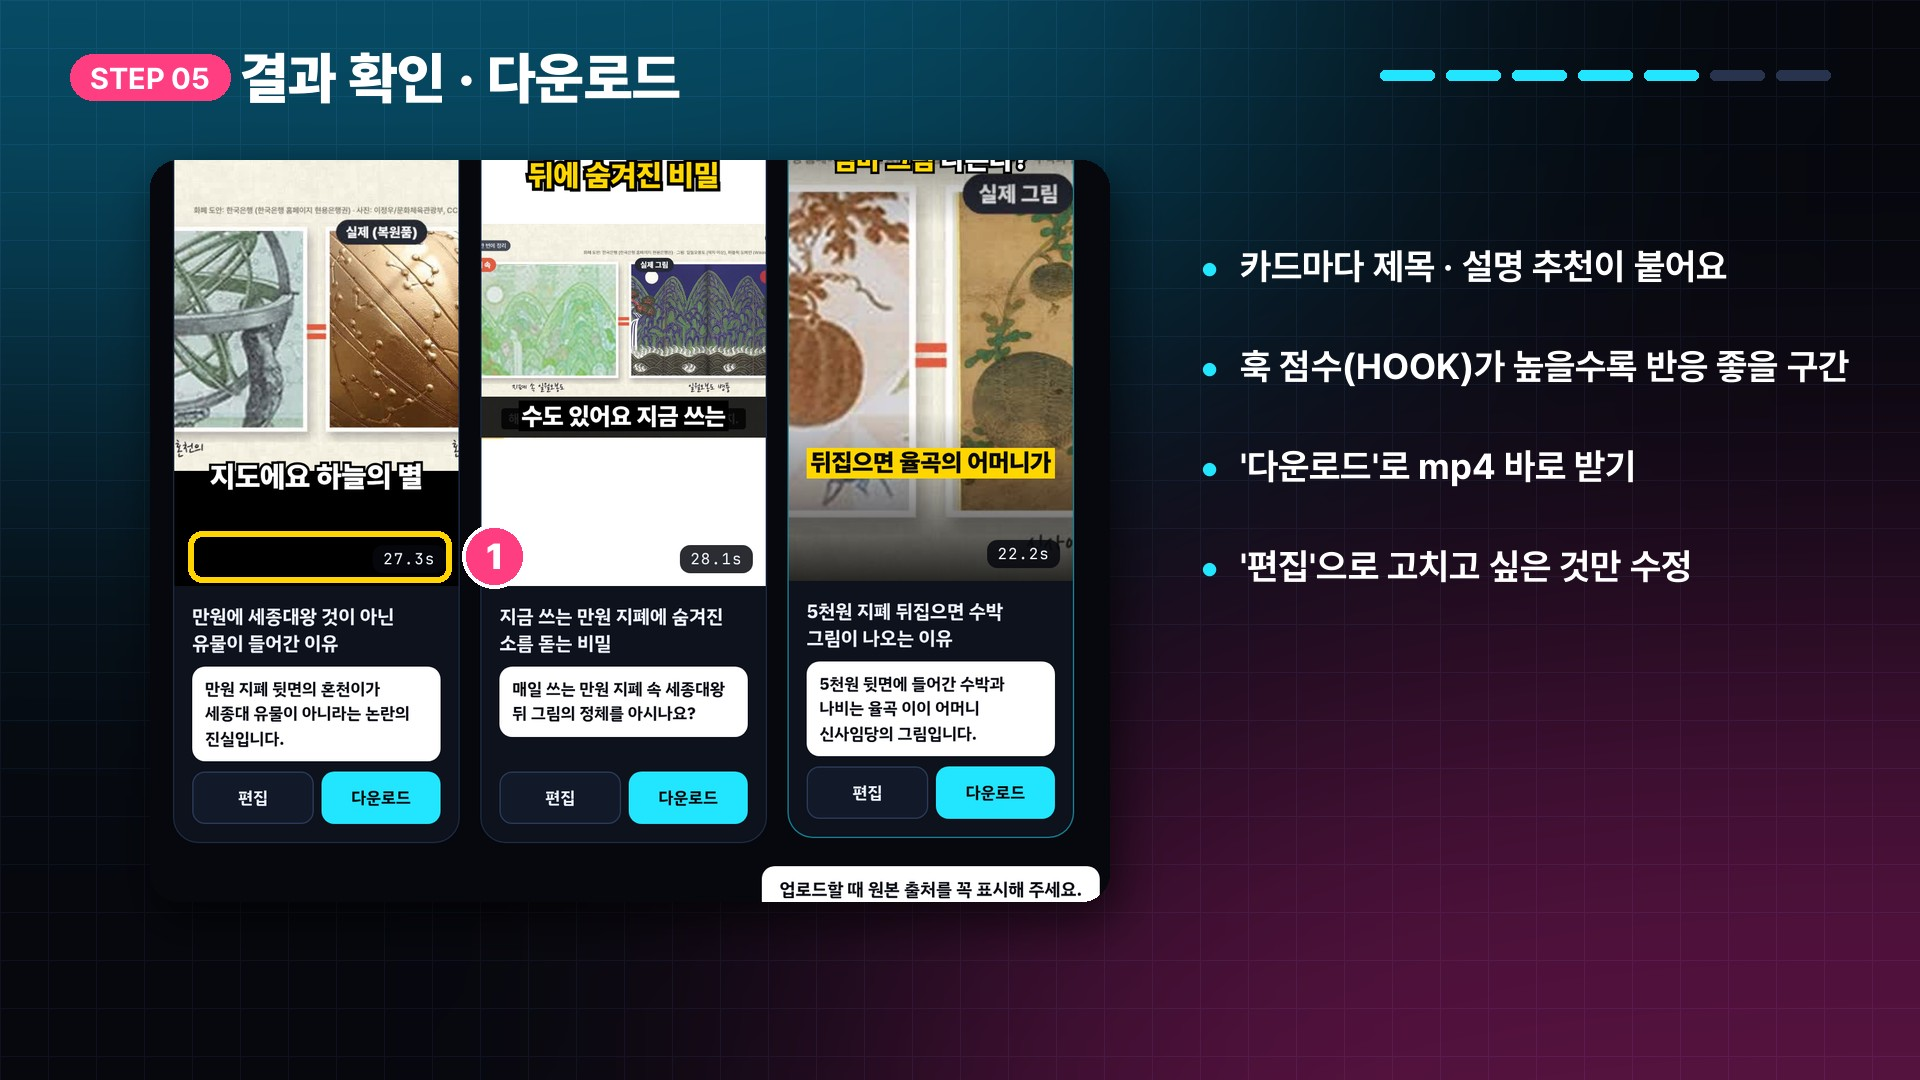
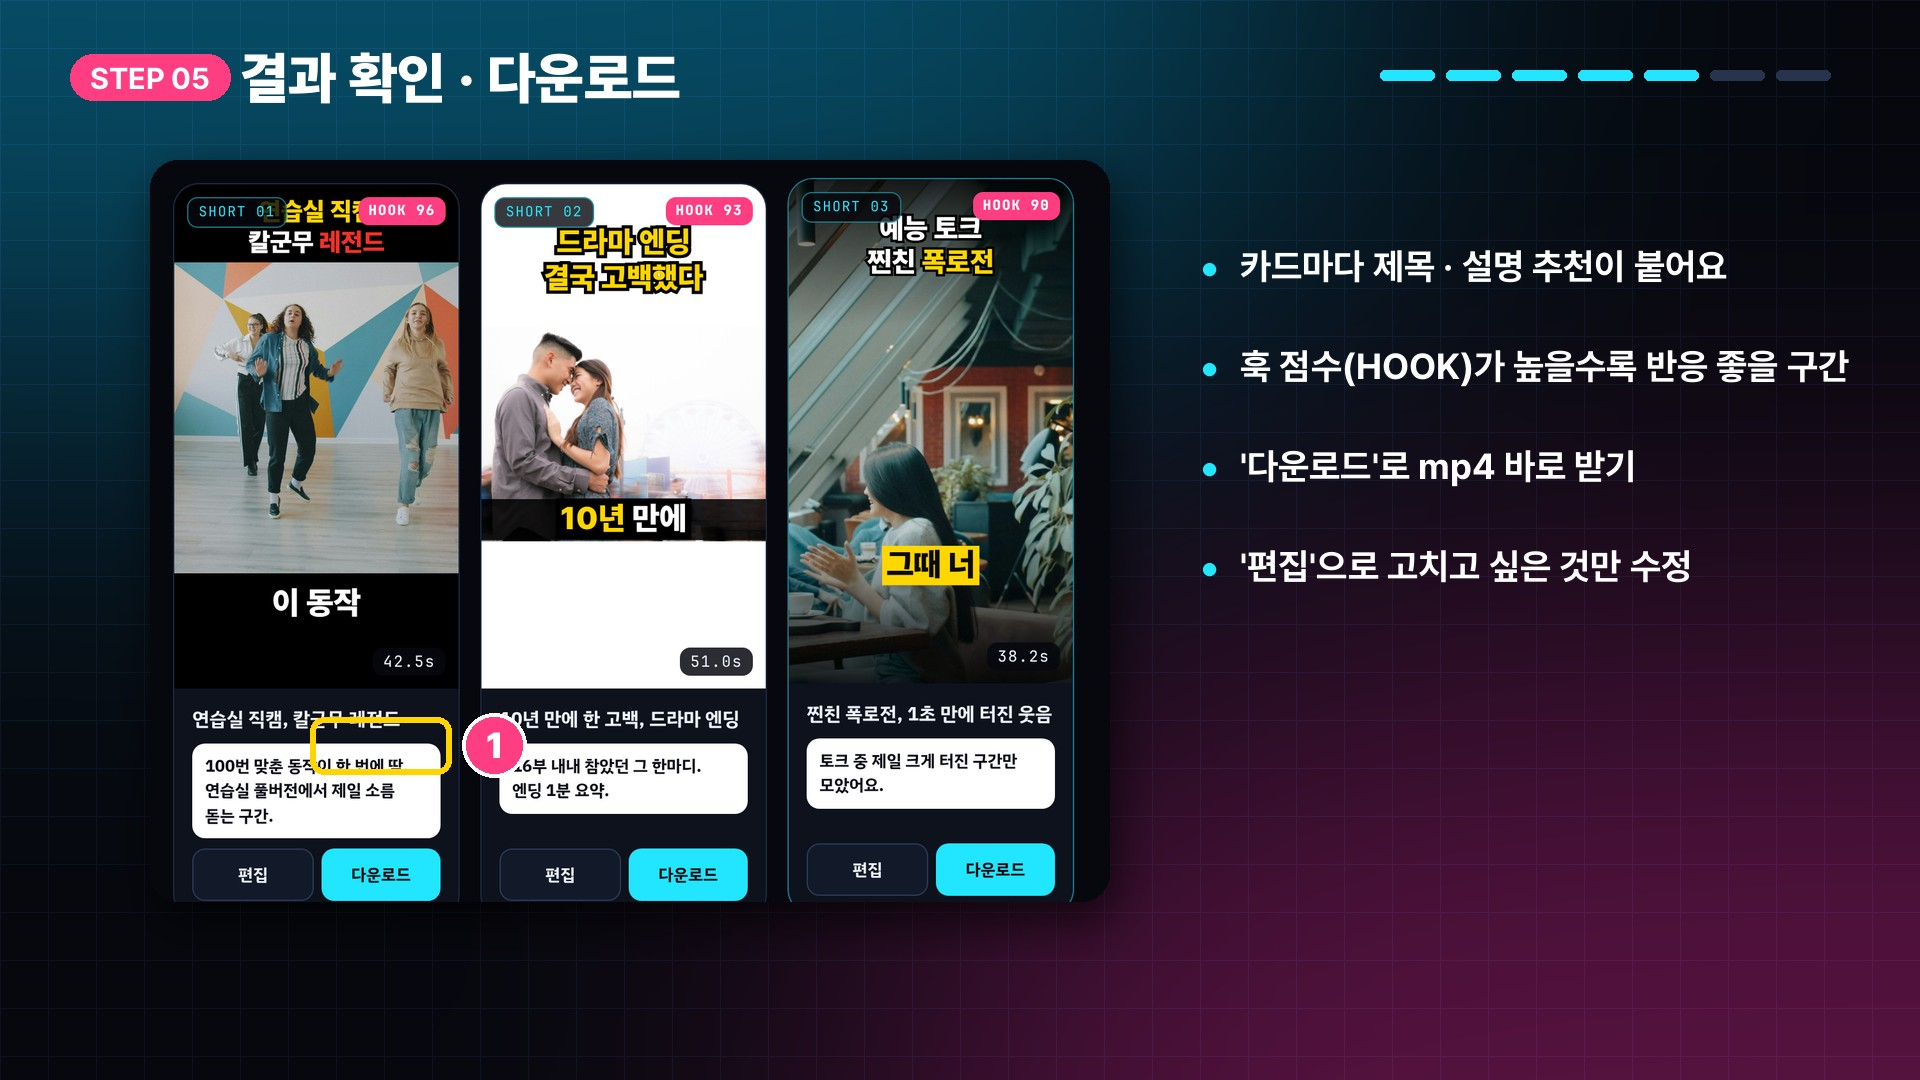
쇼츠 팩토리 마케팅 샘플 수정: 요즘 장르 장면(Unsplash)으로 교체 · 요금 문구 · 설명서 워딩 · 제작 화면 가운데 정렬
Claude-Session: https://claude.ai/code/session_01XzgYRsYwxnJKVwoBmLGtiR

Changed region(s): [[0.0625, 0.1222, 0.5938, 0.8556]]

diff --git a/business/sf_marketing/cap2.js b/business/sf_marketing/cap2.js
@@ -1,0 +1,36 @@
+const { chromium } = require('playwright');
+const D = '/tmp/claude-0/-home-user/9258c601-f35c-5810-8c02-b51a5f7acb8b/scratchpad/mk/';
+(async () => {
+  const b = await chromium.launch();
+  const p = await b.newPage({ viewport: { width: 1440, height: 900 }, deviceScaleFactor: 2 });
+  await p.goto('http://localhost:8770/');
+  await p.waitForTimeout(2000);
+  await p.evaluate(() => { LIVE = false; });
+  await p.fill('#linkInput', 'https://youtu.be/풀영상-링크');
+  await p.click('#countPick [data-n="3"]');
+  await p.screenshot({ path: D + 'd_home.png' });
+  await (await p.$('#countPick')).screenshot({ path: D + 'd_count.png' });
+  await p.evaluate(() => openConsent());
+  await p.waitForTimeout(400);
+  await (await p.$('#consent .modal-box')).screenshot({ path: D + 'd_consent.png' });
+  await p.evaluate(() => document.querySelector('#consent').classList.remove('open'));
+  await p.evaluate(() => runSample());
+  await p.waitForTimeout(4200);
+  await p.screenshot({ path: D + 'd_working.png' });
+  await p.waitForTimeout(5000);
+  await p.evaluate(() => {
+    state = fromSample().slice(0, 3);
+    state.forEach((s, i) => { s.opts = defOpts(['bigblack', 'simple', 'full'][i]); });
+    renderCards(); go('results');
+  });
+  await p.waitForTimeout(2500);
+  await p.screenshot({ path: D + 'd_results.png' });
+  await p.evaluate(() => openEditor(0));
+  await p.waitForTimeout(2000);
+  await p.screenshot({ path: D + 'd_editor.png' });
+  await (await p.$('.phone')).screenshot({ path: D + 'd_phone.png' });
+  await p.check('#voiceOn');
+  await p.click('#voiceF [data-v="Aoede"]');
+  await (await p.$('#voiceBox')).screenshot({ path: D + 'd_voice.png' });
+  await b.close();
+})();

diff --git a/business/sf_marketing/make_mk.py b/business/sf_marketing/make_mk.py
@@ -10,7 +10,7 @@ from PIL import Image, ImageDraw, ImageFilter, ImageFont
 D = Path(__file__).resolve().parent
 SF = Path("/home/user/shorts-factory")
 FD = SF / "server/fonts"
-TPL = Path("/tmp/claude-0/-home-user/9258c601-f35c-5810-8c02-b51a5f7acb8b/scratchpad/tpl")
+TPL = Path(__file__).resolve().parent / "mock"   # 2026-11-23 사용자: 우리 채널 샘플 말고 요즘 장르(드라마 · 아이돌 · 예능)
 OUT = D / "out"
 OUT.mkdir(exist_ok=True)
 
@@ -247,11 +247,12 @@ def r6(im, d):
 
 def r7(im, d):
     logo(im, 250, 320, 1.4)
-    lines(d, 540, 620, "롱폼 1편으로\n[쇼츠 5개]", F(140, "Han"), anchor="m", hl=CY)
-    d.rounded_rectangle((120, 1040, 960, 1400), 40, fill=(16, 22, 36), outline=CY, width=4)
-    rich(d, 540, 1090, "월 [9,900원]", F(110, "Han"), base=WH, hl=YL, anchor="m")
-    rich(d, 540, 1240, "쇼츠 25개 · 쇼츠 1개 = 크레딧 1", F(46, "Bold"), base=DIM, anchor="m")
-    chip(d, 540, 1520, "프로필 링크에서 시작하기 →", F(56), bg=PK, fg=WH, anchor="m", padx=44, pady=22)
+    lines(d, 540, 600, "롱폼 1편 =\n[쇼츠 1~5개]", F(140, "Han"), anchor="m", hl=CY)
+    d.rounded_rectangle((90, 1020, 990, 1420), 40, fill=(16, 22, 36), outline=YL, width=6)
+    rich(d, 540, 1070, "쇼츠 월 [25편]", F(120, "Han"), base=WH, hl=YL, anchor="m")
+    rich(d, 540, 1235, "[9,900원]", F(120, "Han"), base=WH, hl=PK, anchor="m")
+    rich(d, 540, 1450, "* 업그레이드 요금제 별도", F(40, "Bold"), base=DIM, anchor="m")
+    chip(d, 540, 1600, "프로필 링크에서 시작하기 →", F(56), bg=PK, fg=WH, anchor="m", padx=44, pady=22)
 
 
 SAY = [
@@ -261,7 +262,7 @@ SAY = [
     (r4, "8~11초", "자막이랑 헤드 문구까지 자동으로."),
     (r5, "11~14초", "템플릿 5종, 목소리 10종. 내 스타일로 고정까지."),
     (r6, "14~17초", "고칠 건 손가락으로 쓱."),
-    (r7, "17~20초", "롱폼 한 편으로 쇼츠 다섯 개. 쇼츠 팩토리, 프로필 링크에서."),
+    (r7, "17~20초", "롱폼 한 편으로 쇼츠 최대 다섯 개. 한 달 쇼츠 25편이 9,900원. 쇼츠 팩토리, 프로필 링크에서."),
 ]
 for i, (fn, t, say) in enumerate(SAY, 1):
     reel(i, t, say, fn)
@@ -284,7 +285,7 @@ def card(n, draw):
 
 def c1(im, d):
     chip(d, 70, 90, "유튜버 저장 필수", F(36, "Bold"), bg=YL)
-    lines(d, 70, 200, "롱폼 1편이\n[쇼츠 5개]로\n찍혀 나오는 곳", F(118, "Han"), lh=1.18, hl=CY)
+    lines(d, 70, 200, "롱폼 1편이\n[쇼츠 1~5개]로\n찍혀 나오는 곳", F(118, "Han"), lh=1.18, hl=CY)
     phone(im, str(TPL / "tpl3.jpg"), 330, 830, 230)
     phone(im, str(TPL / "tpl1.jpg"), 600, 760, 250)
     phone(im, str(TPL / "tpl5.jpg"), 870, 830, 230)
@@ -308,8 +309,8 @@ def c2(im, d):
 
 def c3(im, d):
     lines(d, 70, 100, "쇼츠 팩토리는\n[3단계]로 끝", F(100, "Han"), hl=CY)
-    steps = [("1", "링크 붙여넣기", SHOTS["home"], (600, 740, 2280, 1040)), ("2", "개수 · 템플릿 고르기", SHOTS["count"], None),
-             ("3", "편집 · mp4 다운로드", SHOTS["results"], (240, 760, 1720, 1300))]
+    steps = [("1", "풀영상 링크 · 파일 넣기", SHOTS["home"], (600, 740, 2280, 1040)), ("2", "개수 · 템플릿 고르기", SHOTS["count"], None),
+             ("3", "편집 · mp4 다운로드", SHOTS["results"], (240, 600, 1720, 1100))]
     y = 420
     for no, t, src, cr in steps:
         badge(d, 120, y + 50, no, 40, PK)
@@ -347,21 +348,19 @@ def c5(im, d):
 
 
 def c6(im, d):
-    lines(d, 70, 100, "쇼츠 1개 = [크레딧 1]", F(96, "Han"), hl=YL)
-    d.text((72, 230), "필요한 만큼만, 고른 개수만큼만", font=F(40, "Bold"), fill=DIM)
+    lines(d, 70, 100, "한 달 쇼츠 [25편]\n[9,900원]부터", F(96, "Han"), hl=YL)
     plans = [("베이직", "9,900", "25"), ("플러스", "15,900", "50"), ("프로", "22,900", "75")]
     for i, (n, p, c) in enumerate(plans):
         x = 70 + i * 320
         hot = i == 1
-        d.rounded_rectangle((x, 340, x + 290, 860), 30, fill=(255, 255, 255) if hot else PANEL, outline=CY if hot else (40, 52, 78), width=4)
+        d.rounded_rectangle((x, 400, x + 290, 860), 30, fill=(255, 255, 255) if hot else PANEL, outline=CY if hot else (40, 52, 78), width=4)
         fg = (10, 13, 22) if hot else WH
-        d.text((x + 30, 380), n, font=F(46), fill=fg)
-        d.text((x + 30, 470), p, font=F(70, "Han"), fill=PK if hot else YL)
-        d.text((x + 30, 560), "원 / 월", font=F(32, "Bold"), fill=DIM if not hot else (80, 90, 110))
-        d.text((x + 30, 680), f"쇼츠 {c}개", font=F(50), fill=fg)
+        d.text((x + 30, 430), n, font=F(46), fill=fg)
+        d.text((x + 30, 510), p, font=F(70, "Han"), fill=PK if hot else YL)
+        d.text((x + 30, 600), "원 / 월", font=F(32, "Bold"), fill=DIM if not hot else (80, 90, 110))
+        d.text((x + 30, 680), f"쇼츠 {c}편", font=F(50), fill=fg)
         if hot:
-            chip(d, x + 145, 315, "인기", F(28, "Bold"), bg=PK, fg=WH, anchor="m", padx=18, pady=6)
-    d.text((72, 900), "추가 충전 2,900원 = 쇼츠 5개 · 못 만든 쇼츠는 크레딧 돌려드려요", font=F(32, "Bold"), fill=DIM)
+            chip(d, x + 145, 375, "인기", F(28, "Bold"), bg=PK, fg=WH, anchor="m", padx=18, pady=6)
     chip(d, 540, 1040, "프로필 링크에서 시작하기 →", F(54), bg=PK, fg=WH, anchor="m", padx=44, pady=22)
     logo(im, 70, 1230, 0.75)
 
@@ -414,7 +413,7 @@ def g1(im, d):
     lines(d, 960, 450, "사용 설명서", F(150, "Han"), anchor="m")
     rich(d, 960, 660, "링크 하나로 쇼츠 만들기 · [3분]이면 끝", F(54, "Bold"), base=DIM, hl=CY, anchor="m")
     f = F(30, "Bold")
-    ts = ["링크", "개수 · 템플릿", "확인", "제작", "다운로드", "편집", "목소리 · 스타일"]
+    ts = ["링크 / 파일", "개수 · 템플릿", "확인", "제작", "다운로드", "편집", "목소리 · 스타일"]
     tot = sum(f.getlength(t) + 36 for t in ts) + 24 * (len(ts) - 1)
     x = 960 - tot / 2
     for t in ts:
@@ -427,7 +426,7 @@ def g2(im, d):
     callout(im, scale_box((620, 780, 2260, 940), src, dst), 1, "", "r")
     d = ImageDraw.Draw(im)
     y = 260
-    for t in ["유튜브 링크를 붙여넣어요", "파일은 '파일 업로드'", "30분 이하 영상까지"]:
+    for t in ["풀영상 링크 붙여넣기", "또는 풀영상 파일 업로드", "30분 이하 영상까지"]:
         d.text((1400, y), "•", font=F(44), fill=CY)
         d.text((1440, y), t, font=F(40, "Bold"), fill=WH)
         y += 90
@@ -461,8 +460,8 @@ def g4(im, d):
 
 
 def g5(im, d):
-    src = (1100, 60, 2780, 1100)
-    shot(im, SHOTS["working"], (120, 170, 1120, 170 + int(1000 * 1040 / 1680)), crop=src)
+    src = (360, 200, 2520, 1420)   # 2026-11-23 사용자: 가운데 · 오와 열 맞게 (콘텐츠 중앙 기준으로 자름)
+    shot(im, SHOTS["working"], (120, 170, 1120, 170 + int(1000 * 1220 / 2160)), crop=src)
     d = ImageDraw.Draw(im)
     y = 260
     for t in ["받기 → 받아쓰기 → 구간 분석 → 제작", "원본 자막이 있으면 화면 글자를 읽어요", "영상 길이에 따라 몇 분 걸려요", "창을 닫아도 계속 만들어져요"]:
@@ -472,9 +471,9 @@ def g5(im, d):
 
 
 def g6(im, d):
-    src = (220, 640, 1720, 1800)
+    src = (220, 480, 1720, 1760)
     dst = shot(im, SHOTS["results"], (150, 160, 1110, 160 + int(960 * 1160 / 1500)), crop=src)
-    callout(im, scale_box((280, 1220, 690, 1300), src, dst), 1, "", "r")
+    callout(im, scale_box((470, 1350, 690, 1440), src, dst), 1, "", "r")
     d = ImageDraw.Draw(im)
     y = 240
     for t in ["카드마다 제목 · 설명 추천이 붙어요", "훅 점수(HOOK)가 높을수록 반응 좋을 구간", "'다운로드'로 mp4 바로 받기", "'편집'으로 고치고 싶은 것만 수정"]:
@@ -518,7 +517,7 @@ def g9(im, d):
 
 GS = [
     (g1, "", "쇼츠 팩토리 사용법을 알려 드릴게요. 링크 하나로 쇼츠 만들기, 3분이면 끝나요."),
-    (g2, "링크 붙여넣기", "먼저 유튜브 풀영상 링크를 붙여넣어요. 파일이 있으면 파일 업로드도 돼요. 30분 이하 영상까지 가능해요."),
+    (g2, "풀영상 링크 / 파일", "먼저 풀영상 링크를 붙여넣거나, 영상 파일을 올려요. 30분 이하 영상까지 가능해요."),
     (g3, "개수 · 템플릿 고르기", "만들 쇼츠 개수를 1개부터 5개까지 고르고, 템플릿을 골라요. 고른 개수만큼 크레딧이 빠져요."),
     (g4, "저작권 확인", "생성 전에 체크 세 개를 해 주세요. 권리가 있는 영상만 올리고, 올릴 때 원본 출처를 꼭 표시해요."),
     (g5, "제작 기다리기", "이제 공장이 돌아가요. AI가 받아쓰고, 재밌는 구간을 골라 쇼츠를 만들어요."),

diff --git a/business/sf_marketing/mock.py b/business/sf_marketing/mock.py
@@ -1,0 +1,80 @@
+"""트렌디한 장면 사진(Unsplash) → 쇼츠 팩토리 템플릿 5종 결과 화면 목업 (엔진의 실제 배치 · 헤드 레이어 사용)"""
+import sys
+import tempfile
+from pathlib import Path
+from PIL import Image, ImageDraw, ImageFont
+
+sys.path.insert(0, "/home/user/shorts-factory/server")
+import pipeline as P  # noqa: E402
+
+PH = Path("/home/user/worknote/business/sf_marketing/photos")
+OUT = Path(__file__).resolve().parent / "mock"
+OUT.mkdir(exist_ok=True)
+FONT = "/home/user/shorts-factory/server/fonts/Pretendard-Black.otf"
+
+# 템플릿 순서: tpl1 심플 화이트 · tpl2 네온 다크 · tpl3 빅 블랙 · tpl4 빅 풀스크린 · tpl5 아이보리 노트
+ITEMS = [
+    ("simple", "drama", "드라마 엔딩\n결국 고백했다", "고백했다", "[10년] 만에 한 고백"),
+    ("neon", "rain", "웹드라마 명장면\n비 오는 날 이별", "이별", "우산 [하나]로 끝난 사이"),
+    ("bigblack", "dance", "연습실 직캠\n칼군무 레전드", "레전드", "이 동작 [100번] 맞췄대요"),
+    ("full", "concert", "콘서트 떼창\n소름 돋은 순간", "소름", "[3만 명]이 같이 불렀어요"),
+    ("ivory", "talk", "예능 토크\n찐친 폭로전", "폭로전", "[1초] 만에 터진 웃음"),
+    ("bigblack", "set", "촬영장 비하인드\nNG 모음", "NG", "NG만 [27번] 났대요"),
+]
+
+
+def cover(im, w, h, fx=0.5, fy=0.5):
+    r = max(w / im.width, h / im.height)
+    im = im.resize((int(im.width * r) + 1, int(im.height * r) + 1), Image.LANCZOS)
+    x = int((im.width - w) * fx)
+    y = int((im.height - h) * fy)
+    return im.crop((x, y, x + w, y + h))
+
+
+def sub(d, key, text, y, size=110):
+    st = P.TPL[key]["sub"]
+    f = ImageFont.truetype(FONT, size)
+    parts, cur, on = [], "", False
+    for ch in text:
+        if ch in "[]":
+            parts.append((cur, on)); cur, on = "", ch == "["
+        else:
+            cur += ch
+    parts.append((cur, on))
+    w = sum(f.getlength(t) for t, _ in parts)
+    while w > 960:
+        size -= 4; f = ImageFont.truetype(FONT, size); w = sum(f.getlength(t) for t, _ in parts)
+    x = (1080 - w) / 2
+    top = y - size * 0.62
+    if st.get("box"):
+        pad = max(10, size // 7)
+        d.rectangle((x - pad * 1.6, top - pad * 0.5, x + w + pad * 1.6, top + size * 1.18 + pad * 0.5), fill=st["box"])
+    for t, h in parts:
+        d.text((x, top), t, font=f, fill=st["hl"] if h else st["fg"], stroke_width=0 if st.get("box") else st.get("stroke", 9),
+               stroke_fill=(0, 0, 0))
+        x += f.getlength(t)
+
+
+def mock(key, photo, head, hl, text, out):
+    g = P.geo(key)
+    v = g["video"]
+    with tempfile.TemporaryDirectory() as td:
+        P.tpl_layers(Path(td), key, head, hl)
+        bg = Image.open(Path(td) / "bg.png").convert("RGB")
+        top = Image.open(Path(td) / "top.png").convert("RGBA")
+    src = Image.open(PH / f"sf_{photo}.jpg").convert("RGB")
+    if v["mode"] == "wide":
+        frame = cover(src, v["vw"], v["h"])
+        x = (v["vw"] - v["w"]) // 2
+        frame = frame.crop((x, 0, x + v["w"], v["h"]))
+    else:
+        frame = cover(src, v["w"], v["h"])
+    bg.paste(frame, (v["x"], v["y"]))
+    im = Image.alpha_composite(bg.convert("RGBA"), top).convert("RGB")
+    sub(ImageDraw.Draw(im), key, text, g["sub_y"])
+    im.save(out, quality=92)
+
+
+for i, (k, ph, head, hl, t) in enumerate(ITEMS, 1):
+    mock(k, ph, head, hl, t, OUT / f"tpl{i}.jpg")
+print("ok")

diff --git a/business/sf_marketing/README.md b/business/sf_marketing/README.md
@@ -1,6 +1,6 @@
 # 쇼츠 팩토리 마케팅 샘플 (11/23 초안)
 
-재료: 실제 서비스 화면 캡처 + 템플릿 시안 + 우리 지폐 롱폼으로 만든 쇼츠 (남의 영상 없음)
+재료: 실제 서비스 화면 캡처 + 요즘 장르(드라마 · 아이돌 · 예능) 장면 사진 (Unsplash, photos/*.json 에 작가) → mock.py 로 템플릿 5종 결과 화면 합성
 다시 만들기: `python3 make_mk.py` (캡처 d_*.png 는 scratchpad/mk/cap.js 로 생성)
 
 ## 1. 릴스 / 쇼츠 홍보 영상 (9:16 · 약 20초 · reel_01~07)
@@ -12,7 +12,7 @@
 | 4 | 8~11초 | 템플릿 쇼츠 3개 | 자막이랑 헤드 문구까지 자동으로. |
 | 5 | 11~14초 | 템플릿 5종 + 목소리 | 템플릿 5종, 목소리 10종. 내 스타일로 고정까지. |
 | 6 | 14~17초 | 편집 화면 + 위아래 화살표 | 고칠 건 손가락으로 쓱. |
-| 7 | 17~20초 | 월 9,900원 · CTA | 롱폼 한 편으로 쇼츠 다섯 개. 쇼츠 팩토리, 프로필 링크에서. |
+| 7 | 17~20초 | 롱폼 1편 = 쇼츠 1~5개 · 쇼츠 월 25편 9,900원 · 업그레이드 요금제 별도 | 롱폼 한 편으로 쇼츠 최대 다섯 개. 한 달 쇼츠 25편이 9,900원. |
 
 ## 2. 인스타 게시물 캐러셀 (4:5 · card_1~6)
 표지(롱폼 1편 → 쇼츠 5개) · 귀찮은 3가지 · 3단계로 끝 · 템플릿 5종 · 디테일 4가지 · 요금제 + CTA
